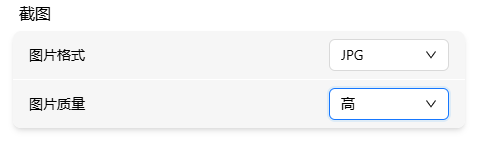
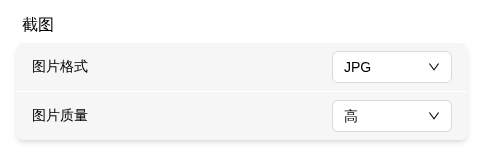
docs(remote): 重抓截图与录像设置截图并同步录像参数
- 截图改为卡片留边距，圆角与阴影完整
- 录像设置去掉音频码率/分辨率/帧率，容器仅 WebM/MKV，
  质量档位改为 1/2/4/8 Mbps

diff --git a/Docs/docs/guide/remote/recording.en.md b/Docs/docs/guide/remote/recording.en.md
@@ -21,7 +21,7 @@ Use the recording icon in the top bar:
 
 `flexkvm-recording-YYYY-MM-DDTHH-MM-SS.{extension}`
 
-e.g., `flexkvm-recording-2026-05-12T21-44-20.mp4`
+e.g., `flexkvm-recording-2026-05-12T21-44-20.webm`
 
 ## Recording Settings
 
@@ -32,22 +32,19 @@ Adjust in Settings → Capture → **Recording Settings**.
 | Setting | Options | Description |
 |---------|---------|-------------|
 | Mute Recording | On/Off | When enabled, the video contains no audio |
-| Audio Bitrate | 64 / 128 / 192 / 256 kbps | Adjustable when not muted; higher bitrate, better audio and larger files |
-| Container Format | WebM / MP4 / MKV | MP4 has the best compatibility; WebM is the browser-native format |
+| Container Format | WebM / MKV | Listed according to browser support; WebM is the browser-native format |
 | Video Codec | Listed per container | Auto-detects codecs available on this machine, labeled (hardware)/(software); hardware encoding uses less CPU |
-| Resolution | Auto / 1080p / 720p / 480p | "Auto" follows the remote display |
-| Frame Rate | Auto / 60 / 30 / 24 / 15 fps | "Auto" follows the remote display |
-| Video Quality | 1–8 Mbps | Higher is sharper and larger |
+| Video Quality | Low / Medium / High / Ultra (1 / 2 / 4 / 8 Mbps) | Higher is sharper and larger |
 
-> The container format matches the video file extension (.webm / .mp4 / .mkv). The codec is how the picture gets compressed: hardware-labeled codecs use dedicated hardware and save the most CPU. Recording is based on WebCodecs: codecs unsupported by this machine never appear in the list, and a saved format that is no longer supported falls back to an available one.
+> The container format matches the video file extension (.webm / .mkv). The codec is how the picture gets compressed: hardware-labeled codecs use dedicated hardware and save the most CPU. Recording is based on WebCodecs: codecs unsupported by this machine never appear in the list, and a saved format that is no longer supported falls back to an available one.
 
 ---
 
 **No audio in recording?** → Check if mute recording is enabled, and whether the host has audio output.
 
-**File won't play?** → Switch to MP4 (H.264) for best compatibility.
+**File won't play?** → Switch to MKV (H.264) for best compatibility.
 
-**Stuttering or high CPU during recording?** → Pick a codec labeled (hardware), or lower the resolution/frame rate/quality.
+**Stuttering or high CPU during recording?** → Pick a codec labeled (hardware), or lower the video quality.
 
 **Laggy or dropped frames?** → Lower the resolution or quality in [Remote Display](screen.md) to reduce encoding load.
 

diff --git a/Docs/docs/guide/remote/recording.md b/Docs/docs/guide/remote/recording.md
@@ -21,7 +21,7 @@
 
 `flexkvm-recording-YYYY-MM-DDTHH-MM-SS.{扩展名}`
 
-如 `flexkvm-recording-2026-05-12T21-44-20.mp4`
+如 `flexkvm-recording-2026-05-12T21-44-20.webm`
 
 ## 录制参数
 
@@ -32,22 +32,19 @@
 | 参数 | 选项 | 说明 |
 |------|------|------|
 | 静音录制 | 开/关 | 开启后视频不含声音 |
-| 音频码率 | 64 / 128 / 192 / 256 kbps | 未静音时可调，码率越高音质越好、体积越大 |
-| 容器格式 | WebM / MP4 / MKV | MP4 兼容性最好；WebM 为浏览器原生格式 |
-| 视频编码器 | 按容器列出 | 自动检测本机可用编码器，标注（硬件）/（软件）；硬件编码 CPU 占用低 |
-| 分辨率 | 自动 / 1080p / 720p / 480p | "自动"跟随远程画面 |
-| 帧率 | 自动 / 60 / 30 / 24 / 15 fps | "自动"跟随远程画面 |
-| 视频画质 | 1~8 Mbps | 越高越清晰、体积越大 |
+| 容器格式 | WebM / MKV | 按浏览器实际支持列出；WebM 为浏览器原生格式 |
+| 视频编码 | 按容器列出 | 自动检测本机可用编码器，标注（硬件）/（软件）；硬件编码 CPU 占用低 |
+| 视频质量 | 低 / 中 / 高 / 超高（1 / 2 / 4 / 8 Mbps） | 越高越清晰、体积越大 |
 
-> 容器格式对应视频文件的后缀（.webm / .mp4 / .mkv）。编码器是画面的压缩方式：标（硬件）的用硬件压缩、最省 CPU。录制基于浏览器 WebCodecs：本机不支持的编码器不会出现在列表中，已保存的格式不再受支持时自动回退到可用项。
+> 容器格式对应视频文件的后缀（.webm / .mkv）。编码是画面的压缩方式：标（硬件）的用硬件压缩、最省 CPU。录制基于浏览器 WebCodecs：本机不支持的编码器不会出现在列表中，已保存的格式不再受支持时自动回退到可用项。
 
 ---
 
 **录的视频没声音？** → 检查是否开了静音录制，以及主机有没有音频输出。
 
-**文件播不了？** → 换 MP4 (H.264) 格式，兼容性最好。
+**文件播不了？** → 换 MKV (H.264) 格式，兼容性最好。
 
-**录制卡顿、CPU 占用高？** → 选标注（硬件）的编码器，或降低分辨率/帧率/画质。
+**录制卡顿、CPU 占用高？** → 选标注（硬件）的编码器，或降低视频质量。
 
 **画面卡顿或掉帧？** → 在[远程画面](screen.md)里降分辨率或画质，减轻编码压力。
 
